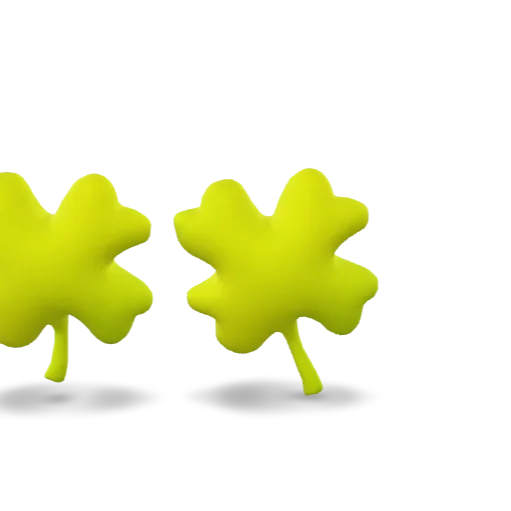
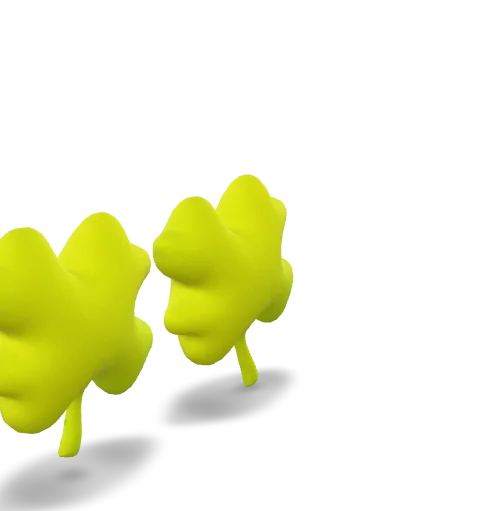
1

Changed region(s): [[0.0, 0.3229, 0.7377, 1.0], [0.4611, 0.4403, 0.4918, 0.4697]]

diff --git a/lucky/index.html b/lucky/index.html
@@ -9,8 +9,8 @@
   </head>
   <body>
     <!-- <model-viewer> HTML element -->
-    <model-viewer src="mm_lucky.glb" ar ar-modes="webxr scene-viewer quick-look" camera-controls tone-mapping="neutral" poster="poster.webp" shadow-intensity="1" autoplay>
-      <button class="Hotspot" slot="hotspot-1" data-surface="0 0 640 670 619 -14.365 5.682 9.683" data-visibility-attribute="visible">
+    <model-viewer src="mm_lucky.glb" ar ar-modes="webxr scene-viewer quick-look" camera-controls tone-mapping="neutral" poster="poster.webp" shadow-intensity="1" autoplay auto-rotate>
+      <button class="Hotspot" slot="hotspot-1" data-surface="0 0 619 615 600 -11.592 -8.283 20.875" data-visibility-attribute="visible">
           <div class="HotspotAnnotation">四葉草</div>
       </button>
       <div class="progress-bar hide" slot="progress-bar">
